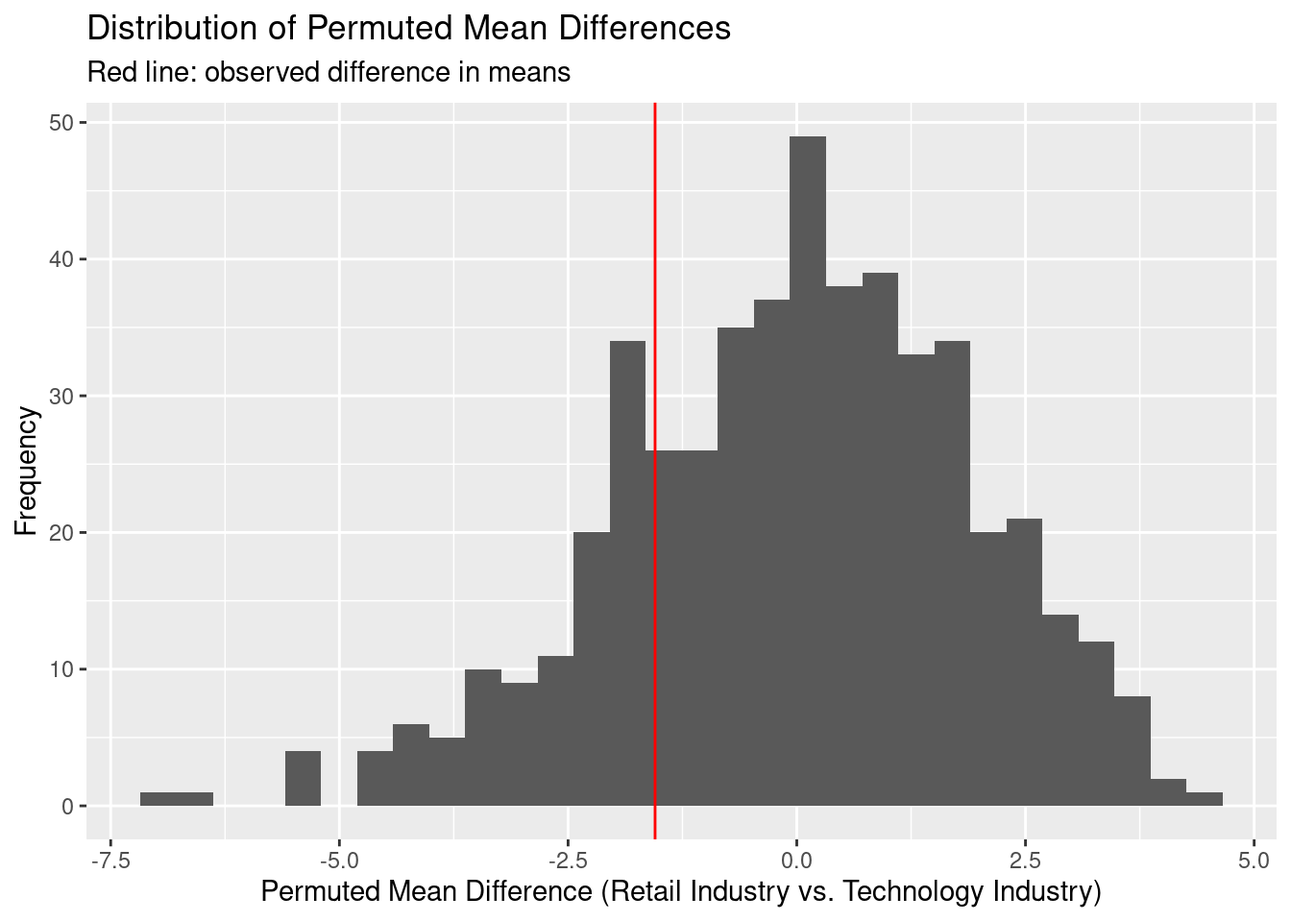
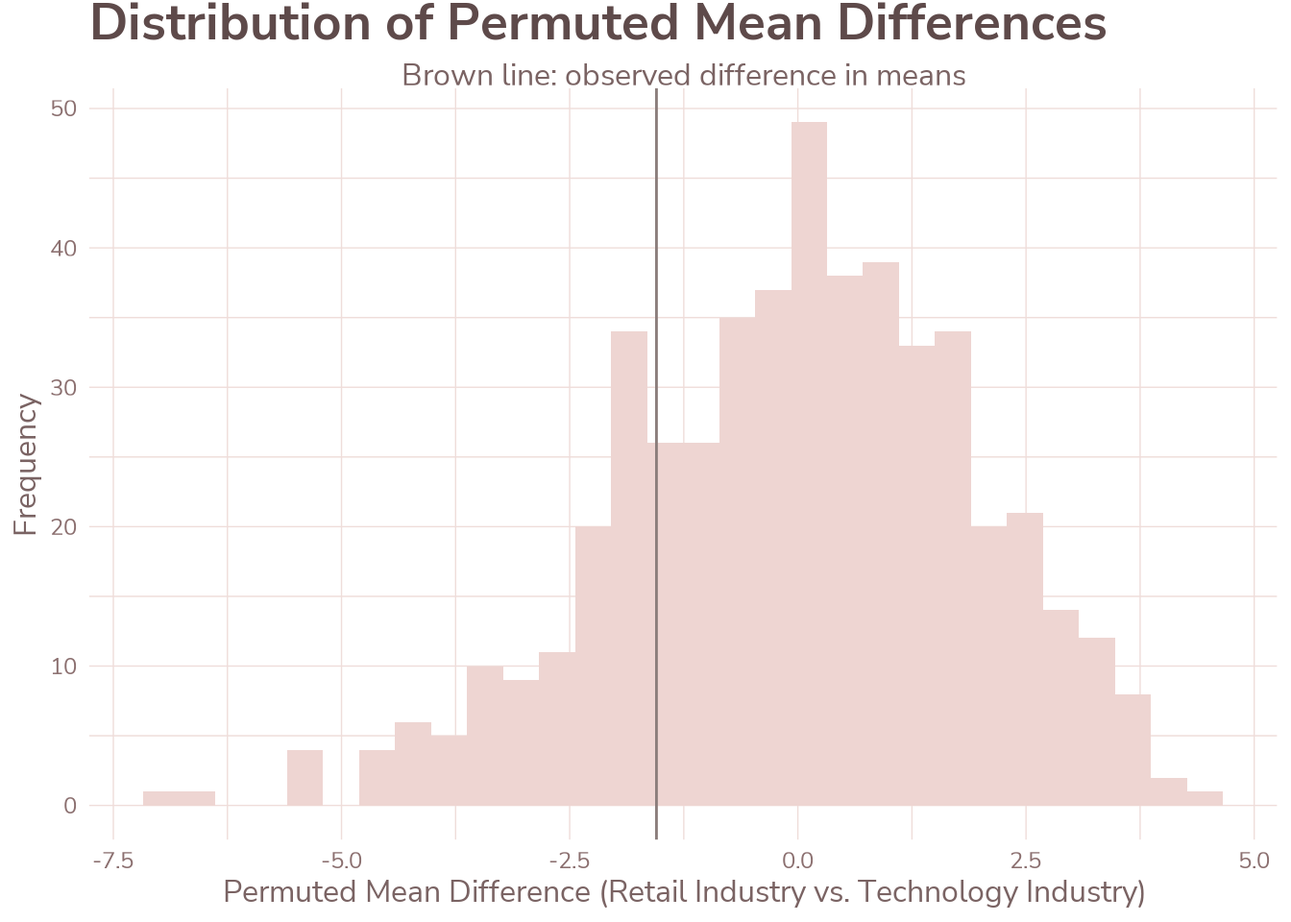
commit

diff --git a/docs/companyreputationscores.html b/docs/companyreputationscores.html
@@ -223,11 +223,16 @@ pre > code.sourceCode > span > a:first-child::before { text-decoration: underlin
 <p>Through my preliminary observation of the data set, I noticed that the company with the best reputation in the data set was Trader Joe’s, a retail store. On the other end, a few companies with low scores included Facebook and Twitter, both part of the technology industry. Since there seemed to be more retail and technology companies in the data set compared to other sectors of the industry, I wanted to see if there was a significant difference in average reputation score between the two sectors.</p>
 <p>To begin the permutation test, I started by importing the data set from TidyTuesday:</p>
 <div class="cell">
-<div class="sourceCode cell-code" id="cb1"><pre class="sourceCode r code-with-copy"><code class="sourceCode r"><span id="cb1-1"><a href="#cb1-1" aria-hidden="true" tabindex="-1"></a><span class="fu">library</span>(tidyverse)</span>
-<span id="cb1-2"><a href="#cb1-2" aria-hidden="true" tabindex="-1"></a></span>
-<span id="cb1-3"><a href="#cb1-3" aria-hidden="true" tabindex="-1"></a>companypoll <span class="ot">&lt;-</span> readr<span class="sc">::</span><span class="fu">read_csv</span>(<span class="st">'https://raw.githubusercontent.com/rfordatascience/tidytuesday/main/data/2022/2022-05-31/poll.csv'</span>)</span>
+<details class="code-fold">
+<summary>Show the code</summary>
+<div class="sourceCode cell-code" id="cb1"><pre class="sourceCode r code-with-copy"><code class="sourceCode r"><span id="cb1-1"><a href="#cb1-1" aria-hidden="true" tabindex="-1"></a><span class="co">#import data set + custom ggplot theme</span></span>
+<span id="cb1-2"><a href="#cb1-2" aria-hidden="true" tabindex="-1"></a><span class="fu">library</span>(tidyverse)</span>
+<span id="cb1-3"><a href="#cb1-3" aria-hidden="true" tabindex="-1"></a><span class="fu">source</span>(<span class="st">"R/theme_asuva.R"</span>)</span>
 <span id="cb1-4"><a href="#cb1-4" aria-hidden="true" tabindex="-1"></a></span>
-<span id="cb1-5"><a href="#cb1-5" aria-hidden="true" tabindex="-1"></a><span class="fu">as_tibble</span>(companypoll)</span></code><button title="Copy to Clipboard" class="code-copy-button"><i class="bi"></i></button></pre></div>
+<span id="cb1-5"><a href="#cb1-5" aria-hidden="true" tabindex="-1"></a>companypoll <span class="ot">&lt;-</span> readr<span class="sc">::</span><span class="fu">read_csv</span>(<span class="st">'https://raw.githubusercontent.com/rfordatascience/tidytuesday/main/data/2022/2022-05-31/poll.csv'</span>)</span>
+<span id="cb1-6"><a href="#cb1-6" aria-hidden="true" tabindex="-1"></a></span>
+<span id="cb1-7"><a href="#cb1-7" aria-hidden="true" tabindex="-1"></a><span class="fu">as_tibble</span>(companypoll)</span></code><button title="Copy to Clipboard" class="code-copy-button"><i class="bi"></i></button></pre></div>
+</details>
 <div class="cell-output cell-output-stdout">
 <pre><code># A tibble: 500 × 8
    company      industry `2022_rank` `2022_rq` change  year  rank    rq
@@ -249,12 +254,16 @@ pre > code.sourceCode > span > a:first-child::before { text-decoration: underlin
 “2022_rank” assigns each company a rank based on their position in the list—as determined by reputation score in descending order.</p>
 <p>Because not all the columns in this data set are particularly useful for the simulation study I hope to conduct, I will initially attempt to clean it. I want to remove the rows for companies that aren’t in the retail or technology sectors and only look at data for 2022, which are the most recent entries.</p>
 <div class="cell">
-<div class="sourceCode cell-code" id="cb3"><pre class="sourceCode r code-with-copy"><code class="sourceCode r"><span id="cb3-1"><a href="#cb3-1" aria-hidden="true" tabindex="-1"></a>company_poll_2022 <span class="ot">&lt;-</span> companypoll <span class="sc">|&gt;</span> </span>
-<span id="cb3-2"><a href="#cb3-2" aria-hidden="true" tabindex="-1"></a>  <span class="fu">filter</span>(industry <span class="sc">==</span> <span class="st">"Retail"</span> <span class="sc">|</span> industry <span class="sc">==</span> <span class="st">"Tech"</span>) <span class="sc">|&gt;</span></span>
-<span id="cb3-3"><a href="#cb3-3" aria-hidden="true" tabindex="-1"></a>  <span class="fu">select</span>(company, industry, <span class="st">`</span><span class="at">2022_rank</span><span class="st">`</span>, <span class="st">`</span><span class="at">2022_rq</span><span class="st">`</span>) <span class="sc">|&gt;</span> </span>
-<span id="cb3-4"><a href="#cb3-4" aria-hidden="true" tabindex="-1"></a>  <span class="fu">distinct</span>()</span>
-<span id="cb3-5"><a href="#cb3-5" aria-hidden="true" tabindex="-1"></a></span>
-<span id="cb3-6"><a href="#cb3-6" aria-hidden="true" tabindex="-1"></a><span class="fu">as_tibble</span>(company_poll_2022)</span></code><button title="Copy to Clipboard" class="code-copy-button"><i class="bi"></i></button></pre></div>
+<details class="code-fold">
+<summary>Show the code</summary>
+<div class="sourceCode cell-code" id="cb3"><pre class="sourceCode r code-with-copy"><code class="sourceCode r"><span id="cb3-1"><a href="#cb3-1" aria-hidden="true" tabindex="-1"></a><span class="co">#filter for companies that are in retail or tech and for 2022 data  </span></span>
+<span id="cb3-2"><a href="#cb3-2" aria-hidden="true" tabindex="-1"></a>company_poll_2022 <span class="ot">&lt;-</span> companypoll <span class="sc">|&gt;</span> </span>
+<span id="cb3-3"><a href="#cb3-3" aria-hidden="true" tabindex="-1"></a>  <span class="fu">filter</span>(industry <span class="sc">==</span> <span class="st">"Retail"</span> <span class="sc">|</span> industry <span class="sc">==</span> <span class="st">"Tech"</span>) <span class="sc">|&gt;</span></span>
+<span id="cb3-4"><a href="#cb3-4" aria-hidden="true" tabindex="-1"></a>  <span class="fu">select</span>(company, industry, <span class="st">`</span><span class="at">2022_rank</span><span class="st">`</span>, <span class="st">`</span><span class="at">2022_rq</span><span class="st">`</span>) <span class="sc">|&gt;</span> </span>
+<span id="cb3-5"><a href="#cb3-5" aria-hidden="true" tabindex="-1"></a>  <span class="fu">distinct</span>()</span>
+<span id="cb3-6"><a href="#cb3-6" aria-hidden="true" tabindex="-1"></a></span>
+<span id="cb3-7"><a href="#cb3-7" aria-hidden="true" tabindex="-1"></a><span class="fu">as_tibble</span>(company_poll_2022)</span></code><button title="Copy to Clipboard" class="code-copy-button"><i class="bi"></i></button></pre></div>
+</details>
 <div class="cell-output cell-output-stdout">
 <pre><code># A tibble: 37 × 4
    company        industry `2022_rank` `2022_rq`
@@ -279,10 +288,14 @@ pre > code.sourceCode > span > a:first-child::before { text-decoration: underlin
 <p>Part of my justification for my alternative hypothesis is based on the idea that the American public is likely to be more familiar with retail brands since they are more customer-facing (dealing in direct transactions with individual buyers). Tech companies like Facebook, on the other hand, have suffered from high profile lawsuits involving data privacy and may be negatively viewed due to public distrust or unfamiliarity with technology.</p>
 <p>To begin testing my hypothesis, I want to first calculate the average reputation score between popular companies in the retail industry and the average reputation score between population companies in the technology industry. The results from the data set are below:</p>
 <div class="cell">
-<div class="sourceCode cell-code" id="cb5"><pre class="sourceCode r code-with-copy"><code class="sourceCode r"><span id="cb5-1"><a href="#cb5-1" aria-hidden="true" tabindex="-1"></a>company_poll_2022 <span class="sc">|&gt;</span> </span>
-<span id="cb5-2"><a href="#cb5-2" aria-hidden="true" tabindex="-1"></a>  <span class="fu">filter</span>(industry <span class="sc">==</span> <span class="st">"Retail"</span> <span class="sc">|</span> industry <span class="sc">==</span> <span class="st">"Tech"</span>) <span class="sc">|&gt;</span></span>
-<span id="cb5-3"><a href="#cb5-3" aria-hidden="true" tabindex="-1"></a>  <span class="fu">group_by</span>(industry) <span class="sc">|&gt;</span> </span>
-<span id="cb5-4"><a href="#cb5-4" aria-hidden="true" tabindex="-1"></a>  <span class="fu">summarize</span>(<span class="at">avg_score =</span> <span class="fu">mean</span>(<span class="st">`</span><span class="at">2022_rq</span><span class="st">`</span>))</span></code><button title="Copy to Clipboard" class="code-copy-button"><i class="bi"></i></button></pre></div>
+<details class="code-fold">
+<summary>Show the code</summary>
+<div class="sourceCode cell-code" id="cb5"><pre class="sourceCode r code-with-copy"><code class="sourceCode r"><span id="cb5-1"><a href="#cb5-1" aria-hidden="true" tabindex="-1"></a><span class="co">#calculate avg reputation score b/t popular companies in retail industry and tech industry</span></span>
+<span id="cb5-2"><a href="#cb5-2" aria-hidden="true" tabindex="-1"></a>company_poll_2022 <span class="sc">|&gt;</span> </span>
+<span id="cb5-3"><a href="#cb5-3" aria-hidden="true" tabindex="-1"></a>  <span class="fu">filter</span>(industry <span class="sc">==</span> <span class="st">"Retail"</span> <span class="sc">|</span> industry <span class="sc">==</span> <span class="st">"Tech"</span>) <span class="sc">|&gt;</span></span>
+<span id="cb5-4"><a href="#cb5-4" aria-hidden="true" tabindex="-1"></a>  <span class="fu">group_by</span>(industry) <span class="sc">|&gt;</span> </span>
+<span id="cb5-5"><a href="#cb5-5" aria-hidden="true" tabindex="-1"></a>  <span class="fu">summarize</span>(<span class="at">avg_score =</span> <span class="fu">mean</span>(<span class="st">`</span><span class="at">2022_rq</span><span class="st">`</span>))</span></code><button title="Copy to Clipboard" class="code-copy-button"><i class="bi"></i></button></pre></div>
+</details>
 <div class="cell-output cell-output-stdout">
 <pre><code># A tibble: 2 × 2
   industry avg_score
@@ -294,40 +307,50 @@ pre > code.sourceCode > span > a:first-child::before { text-decoration: underlin
 <p>By merely looking at the observed values for means of the two industries, I can confirm that the average scores match my alternative hypothesis—the average score of the retail industry is higher than the score for the technology industry.</p>
 <p>With these observed means, I plan on using a function to randomly reassign data points to the two different groups (retail vs.&nbsp;technology). Under the null hypothesis, this random reassignment should produce test statistics similar to the observed one. Using the function below, the observations in the data set are repeatedly shuffled to create multiple “null” data sets and their averages are taken. Multiple iterations of this will generate a distribution of mean differences under the null hypothesis, which can be compared to the observed difference.</p>
 <div class="cell">
-<div class="sourceCode cell-code" id="cb7"><pre class="sourceCode r code-with-copy"><code class="sourceCode r"><span id="cb7-1"><a href="#cb7-1" aria-hidden="true" tabindex="-1"></a>perm_data <span class="ot">&lt;-</span> <span class="cf">function</span>(rep, data){</span>
-<span id="cb7-2"><a href="#cb7-2" aria-hidden="true" tabindex="-1"></a>  data <span class="sc">|&gt;</span> </span>
-<span id="cb7-3"><a href="#cb7-3" aria-hidden="true" tabindex="-1"></a>    <span class="fu">select</span>(industry, <span class="st">`</span><span class="at">2022_rq</span><span class="st">`</span>) <span class="sc">|&gt;</span> </span>
-<span id="cb7-4"><a href="#cb7-4" aria-hidden="true" tabindex="-1"></a>    <span class="fu">mutate</span>(<span class="at">score_perm =</span> <span class="fu">sample</span>(<span class="st">`</span><span class="at">2022_rq</span><span class="st">`</span>, <span class="at">replace =</span> <span class="cn">FALSE</span>)) <span class="sc">|&gt;</span> </span>
-<span id="cb7-5"><a href="#cb7-5" aria-hidden="true" tabindex="-1"></a>    <span class="fu">group_by</span>(industry) <span class="sc">|&gt;</span> </span>
-<span id="cb7-6"><a href="#cb7-6" aria-hidden="true" tabindex="-1"></a>    <span class="fu">summarize</span>(<span class="at">obs_avg =</span> <span class="fu">mean</span>(<span class="st">`</span><span class="at">2022_rq</span><span class="st">`</span>),</span>
-<span id="cb7-7"><a href="#cb7-7" aria-hidden="true" tabindex="-1"></a>              <span class="at">perm_avg =</span> <span class="fu">mean</span>(score_perm)) <span class="sc">|&gt;</span> </span>
-<span id="cb7-8"><a href="#cb7-8" aria-hidden="true" tabindex="-1"></a>    <span class="fu">summarize</span>(<span class="at">obs_avg_diff =</span> <span class="fu">diff</span>(obs_avg),</span>
-<span id="cb7-9"><a href="#cb7-9" aria-hidden="true" tabindex="-1"></a>              <span class="at">perm_avg_diff =</span> <span class="fu">diff</span>(perm_avg),</span>
-<span id="cb7-10"><a href="#cb7-10" aria-hidden="true" tabindex="-1"></a>              <span class="at">rep =</span> rep)</span>
-<span id="cb7-11"><a href="#cb7-11" aria-hidden="true" tabindex="-1"></a>}</span></code><button title="Copy to Clipboard" class="code-copy-button"><i class="bi"></i></button></pre></div>
+<details class="code-fold">
+<summary>Show the code</summary>
+<div class="sourceCode cell-code" id="cb7"><pre class="sourceCode r code-with-copy"><code class="sourceCode r"><span id="cb7-1"><a href="#cb7-1" aria-hidden="true" tabindex="-1"></a><span class="co">#create function to repeatedly shuffle data points </span></span>
+<span id="cb7-2"><a href="#cb7-2" aria-hidden="true" tabindex="-1"></a>perm_data <span class="ot">&lt;-</span> <span class="cf">function</span>(rep, data){</span>
+<span id="cb7-3"><a href="#cb7-3" aria-hidden="true" tabindex="-1"></a>  data <span class="sc">|&gt;</span> </span>
+<span id="cb7-4"><a href="#cb7-4" aria-hidden="true" tabindex="-1"></a>    <span class="fu">select</span>(industry, <span class="st">`</span><span class="at">2022_rq</span><span class="st">`</span>) <span class="sc">|&gt;</span> </span>
+<span id="cb7-5"><a href="#cb7-5" aria-hidden="true" tabindex="-1"></a>    <span class="fu">mutate</span>(<span class="at">score_perm =</span> <span class="fu">sample</span>(<span class="st">`</span><span class="at">2022_rq</span><span class="st">`</span>, <span class="at">replace =</span> <span class="cn">FALSE</span>)) <span class="sc">|&gt;</span> </span>
+<span id="cb7-6"><a href="#cb7-6" aria-hidden="true" tabindex="-1"></a>    <span class="fu">group_by</span>(industry) <span class="sc">|&gt;</span> </span>
+<span id="cb7-7"><a href="#cb7-7" aria-hidden="true" tabindex="-1"></a>    <span class="fu">summarize</span>(<span class="at">obs_avg =</span> <span class="fu">mean</span>(<span class="st">`</span><span class="at">2022_rq</span><span class="st">`</span>),</span>
+<span id="cb7-8"><a href="#cb7-8" aria-hidden="true" tabindex="-1"></a>              <span class="at">perm_avg =</span> <span class="fu">mean</span>(score_perm)) <span class="sc">|&gt;</span> </span>
+<span id="cb7-9"><a href="#cb7-9" aria-hidden="true" tabindex="-1"></a>    <span class="fu">summarize</span>(<span class="at">obs_avg_diff =</span> <span class="fu">diff</span>(obs_avg),</span>
+<span id="cb7-10"><a href="#cb7-10" aria-hidden="true" tabindex="-1"></a>              <span class="at">perm_avg_diff =</span> <span class="fu">diff</span>(perm_avg),</span>
+<span id="cb7-11"><a href="#cb7-11" aria-hidden="true" tabindex="-1"></a>              <span class="at">rep =</span> rep)</span>
+<span id="cb7-12"><a href="#cb7-12" aria-hidden="true" tabindex="-1"></a>}</span></code><button title="Copy to Clipboard" class="code-copy-button"><i class="bi"></i></button></pre></div>
+</details>
 </div>
-<p>Now that I have a permutation function, I will run it 500 times using the map function below. This will generate 500 simulated null data sets that can be used to show the distribution of permuted mean differences on a histogram, which is included below. In the histogram, the observed average differences in the original data set is shown with a red line.</p>
+<p>Now that I have a permutation function, I will run it 500 times using the map function below. This will generate 500 simulated null data sets that can be used to show the distribution of permuted mean differences on a histogram, which is included below. In the histogram, the observed average difference in the original data set is shown with a brown line.</p>
 <div class="cell">
-<div class="sourceCode cell-code" id="cb8"><pre class="sourceCode r code-with-copy"><code class="sourceCode r"><span id="cb8-1"><a href="#cb8-1" aria-hidden="true" tabindex="-1"></a><span class="fu">set.seed</span>(<span class="dv">50</span>) </span>
-<span id="cb8-2"><a href="#cb8-2" aria-hidden="true" tabindex="-1"></a></span>
-<span id="cb8-3"><a href="#cb8-3" aria-hidden="true" tabindex="-1"></a>perm_stats <span class="ot">&lt;-</span> </span>
-<span id="cb8-4"><a href="#cb8-4" aria-hidden="true" tabindex="-1"></a>  <span class="fu">map</span>(<span class="fu">c</span>(<span class="dv">1</span><span class="sc">:</span><span class="dv">500</span>), perm_data, <span class="at">data =</span> company_poll_2022) <span class="sc">|&gt;</span> </span>
-<span id="cb8-5"><a href="#cb8-5" aria-hidden="true" tabindex="-1"></a>  <span class="fu">list_rbind</span>()</span>
-<span id="cb8-6"><a href="#cb8-6" aria-hidden="true" tabindex="-1"></a></span>
-<span id="cb8-7"><a href="#cb8-7" aria-hidden="true" tabindex="-1"></a>perm_stats <span class="sc">|&gt;</span> </span>
-<span id="cb8-8"><a href="#cb8-8" aria-hidden="true" tabindex="-1"></a>  <span class="fu">ggplot</span>(<span class="fu">aes</span>(<span class="at">x =</span> perm_avg_diff)) <span class="sc">+</span> </span>
-<span id="cb8-9"><a href="#cb8-9" aria-hidden="true" tabindex="-1"></a>  <span class="fu">geom_histogram</span>() <span class="sc">+</span> </span>
-<span id="cb8-10"><a href="#cb8-10" aria-hidden="true" tabindex="-1"></a>  <span class="fu">geom_vline</span>(<span class="fu">aes</span>(<span class="at">xintercept =</span> obs_avg_diff), <span class="at">color =</span> <span class="st">"red"</span>) <span class="sc">+</span></span>
-<span id="cb8-11"><a href="#cb8-11" aria-hidden="true" tabindex="-1"></a>  <span class="fu">labs</span>(</span>
-<span id="cb8-12"><a href="#cb8-12" aria-hidden="true" tabindex="-1"></a>    <span class="at">title =</span> <span class="st">"Distribution of Permuted Mean Differences"</span>,</span>
-<span id="cb8-13"><a href="#cb8-13" aria-hidden="true" tabindex="-1"></a>    <span class="at">subtitle =</span> <span class="st">"Red line: observed difference in means"</span>,</span>
-<span id="cb8-14"><a href="#cb8-14" aria-hidden="true" tabindex="-1"></a>    <span class="at">x =</span> <span class="st">"Permuted Mean Difference (Retail Industry vs. Technology Industry)"</span>,</span>
-<span id="cb8-15"><a href="#cb8-15" aria-hidden="true" tabindex="-1"></a>    <span class="at">y =</span> <span class="st">"Frequency"</span></span>
-<span id="cb8-16"><a href="#cb8-16" aria-hidden="true" tabindex="-1"></a>  )</span></code><button title="Copy to Clipboard" class="code-copy-button"><i class="bi"></i></button></pre></div>
+<details class="code-fold">
+<summary>Show the code</summary>
+<div class="sourceCode cell-code" id="cb8"><pre class="sourceCode r code-with-copy"><code class="sourceCode r"><span id="cb8-1"><a href="#cb8-1" aria-hidden="true" tabindex="-1"></a><span class="co">#ensure data is reproducible</span></span>
+<span id="cb8-2"><a href="#cb8-2" aria-hidden="true" tabindex="-1"></a><span class="fu">set.seed</span>(<span class="dv">50</span>) </span>
+<span id="cb8-3"><a href="#cb8-3" aria-hidden="true" tabindex="-1"></a></span>
+<span id="cb8-4"><a href="#cb8-4" aria-hidden="true" tabindex="-1"></a><span class="co">#iterate function 500 times using map </span></span>
+<span id="cb8-5"><a href="#cb8-5" aria-hidden="true" tabindex="-1"></a>perm_stats <span class="ot">&lt;-</span> </span>
+<span id="cb8-6"><a href="#cb8-6" aria-hidden="true" tabindex="-1"></a>  <span class="fu">map</span>(<span class="fu">c</span>(<span class="dv">1</span><span class="sc">:</span><span class="dv">500</span>), perm_data, <span class="at">data =</span> company_poll_2022) <span class="sc">|&gt;</span> </span>
+<span id="cb8-7"><a href="#cb8-7" aria-hidden="true" tabindex="-1"></a>  <span class="fu">list_rbind</span>()</span>
+<span id="cb8-8"><a href="#cb8-8" aria-hidden="true" tabindex="-1"></a></span>
+<span id="cb8-9"><a href="#cb8-9" aria-hidden="true" tabindex="-1"></a><span class="co">#graph the distribution of permuted mean differences on a histogram </span></span>
+<span id="cb8-10"><a href="#cb8-10" aria-hidden="true" tabindex="-1"></a>perm_stats <span class="sc">|&gt;</span> </span>
+<span id="cb8-11"><a href="#cb8-11" aria-hidden="true" tabindex="-1"></a>  <span class="fu">ggplot</span>(<span class="fu">aes</span>(<span class="at">x =</span> perm_avg_diff)) <span class="sc">+</span> </span>
+<span id="cb8-12"><a href="#cb8-12" aria-hidden="true" tabindex="-1"></a>  <span class="fu">geom_histogram</span>(<span class="at">fill =</span> <span class="st">"mistyrose2"</span>) <span class="sc">+</span> </span>
+<span id="cb8-13"><a href="#cb8-13" aria-hidden="true" tabindex="-1"></a>  <span class="fu">geom_vline</span>(<span class="fu">aes</span>(<span class="at">xintercept =</span> obs_avg_diff), <span class="at">color =</span> <span class="st">"mistyrose4"</span>) <span class="sc">+</span></span>
+<span id="cb8-14"><a href="#cb8-14" aria-hidden="true" tabindex="-1"></a>  <span class="fu">labs</span>(</span>
+<span id="cb8-15"><a href="#cb8-15" aria-hidden="true" tabindex="-1"></a>    <span class="at">title =</span> <span class="st">"Distribution of Permuted Mean Differences"</span>,</span>
+<span id="cb8-16"><a href="#cb8-16" aria-hidden="true" tabindex="-1"></a>    <span class="at">subtitle =</span> <span class="st">"Brown line: observed difference in means"</span>,</span>
+<span id="cb8-17"><a href="#cb8-17" aria-hidden="true" tabindex="-1"></a>    <span class="at">x =</span> <span class="st">"Permuted Mean Difference (Retail Industry vs. Technology Industry)"</span>,</span>
+<span id="cb8-18"><a href="#cb8-18" aria-hidden="true" tabindex="-1"></a>    <span class="at">y =</span> <span class="st">"Frequency"</span>) <span class="sc">+</span></span>
+<span id="cb8-19"><a href="#cb8-19" aria-hidden="true" tabindex="-1"></a>  <span class="fu">theme_asuva</span>()</span></code><button title="Copy to Clipboard" class="code-copy-button"><i class="bi"></i></button></pre></div>
+</details>
 <div class="cell-output-display">
 <div>
 <figure class="figure">
-<p><img src="companyreputationscores_files/figure-html/unnamed-chunk-5-1.png" class="img-fluid figure-img" width="672"></p>
+<p><img src="companyreputationscores_files/figure-html/unnamed-chunk-5-1.png" class="img-fluid figure-img" alt="Histogram depicting the distribution of permuted mean differences between reputation scores of retail companies and reputation scores of technology companies, with the observed average difference displayed as a brown line." width="672"></p>
 </figure>
 </div>
 </div>
@@ -335,8 +358,12 @@ pre > code.sourceCode > span > a:first-child::before { text-decoration: underlin
 <p>Since the line is so close to the center of the distribution, it is highly likely that there is no real difference between the observed values and the expected difference under the null hypothesis. What is interesting to note is that although I initially expected Retail companies to have higher reputation scores, the observed mean difference was slightly negative in this distribution, indicating that Technology companies had marginally higher average reputation scores. However, this difference is small and likely due to random variation.</p>
 <p>To verify that there is likely no difference between the reputation scores of the two industries, I will compute the p-value below. The code below checks whether the permuted mean difference is greater than the observed one for each permutation and takes the average of all the times where the permuted mean difference was greater than the observed one.</p>
 <div class="cell">
-<div class="sourceCode cell-code" id="cb9"><pre class="sourceCode r code-with-copy"><code class="sourceCode r"><span id="cb9-1"><a href="#cb9-1" aria-hidden="true" tabindex="-1"></a>perm_stats <span class="sc">|&gt;</span> </span>
-<span id="cb9-2"><a href="#cb9-2" aria-hidden="true" tabindex="-1"></a>  <span class="fu">summarize</span>(<span class="at">p_val_avg =</span> <span class="fu">mean</span>(perm_avg_diff <span class="sc">&gt;</span> obs_avg_diff))</span></code><button title="Copy to Clipboard" class="code-copy-button"><i class="bi"></i></button></pre></div>
+<details class="code-fold">
+<summary>Show the code</summary>
+<div class="sourceCode cell-code" id="cb9"><pre class="sourceCode r code-with-copy"><code class="sourceCode r"><span id="cb9-1"><a href="#cb9-1" aria-hidden="true" tabindex="-1"></a><span class="co">#compute p value </span></span>
+<span id="cb9-2"><a href="#cb9-2" aria-hidden="true" tabindex="-1"></a>perm_stats <span class="sc">|&gt;</span> </span>
+<span id="cb9-3"><a href="#cb9-3" aria-hidden="true" tabindex="-1"></a>  <span class="fu">summarize</span>(<span class="at">p_val_avg =</span> <span class="fu">mean</span>(perm_avg_diff <span class="sc">&gt;</span> obs_avg_diff))</span></code><button title="Copy to Clipboard" class="code-copy-button"><i class="bi"></i></button></pre></div>
+</details>
 <div class="cell-output cell-output-stdout">
 <pre><code># A tibble: 1 × 1
   p_val_avg
@@ -347,7 +374,7 @@ pre > code.sourceCode > span > a:first-child::before { text-decoration: underlin
 <p>Since the p-value is 0.774, this means that about 74.4% of the permuted differences under the null hypothesis were greater than or equal to my observed mean difference. This is a very high p-value, so with this data, I would fail to reject the null-hypothesis.</p>
 <p>To recap, the steps of this study included 1) identifying the observed means between the two industries, 2) forming a null and alternative hypothesis based on observed data, 3) shuffling data to create a distribution of permuted mean differences between the two industries, 4) calculating the p-value for the proportion of permuted differences that are greater than or equal to the observed mean difference, and 5) interpreting the p-value in the context of the problem. The results of this process suggest that there is not enough evidence to conclude that the two industries differ in their reputation scores.</p>
 <p>Something that is important to note is that after cleaning the data set, the number of observations were reduced very significantly to 37 observations. The limited sample size may have led to a larger p-value.</p>
-<p>Credits:</p>
+<p><u>Credits:</u></p>
 <p><strong>Data:</strong> TidyTuesday Company reputation poll, <a href="https://github.com/rfordatascience/tidytuesday/tree/main/data/2022/2022-05-31" class="uri">https://github.com/rfordatascience/tidytuesday/tree/main/data/2022/2022-05-31</a>.</p>
 <p><strong>Original Source:</strong> 2022 Axios-Harris Poll 100 Reputation Rankings, <a href="https://www.axios.com/2022/05/24/2022-axios-harris-poll-100-rankings" class="uri">https://www.axios.com/2022/05/24/2022-axios-harris-poll-100-rankings</a>.</p>
 
